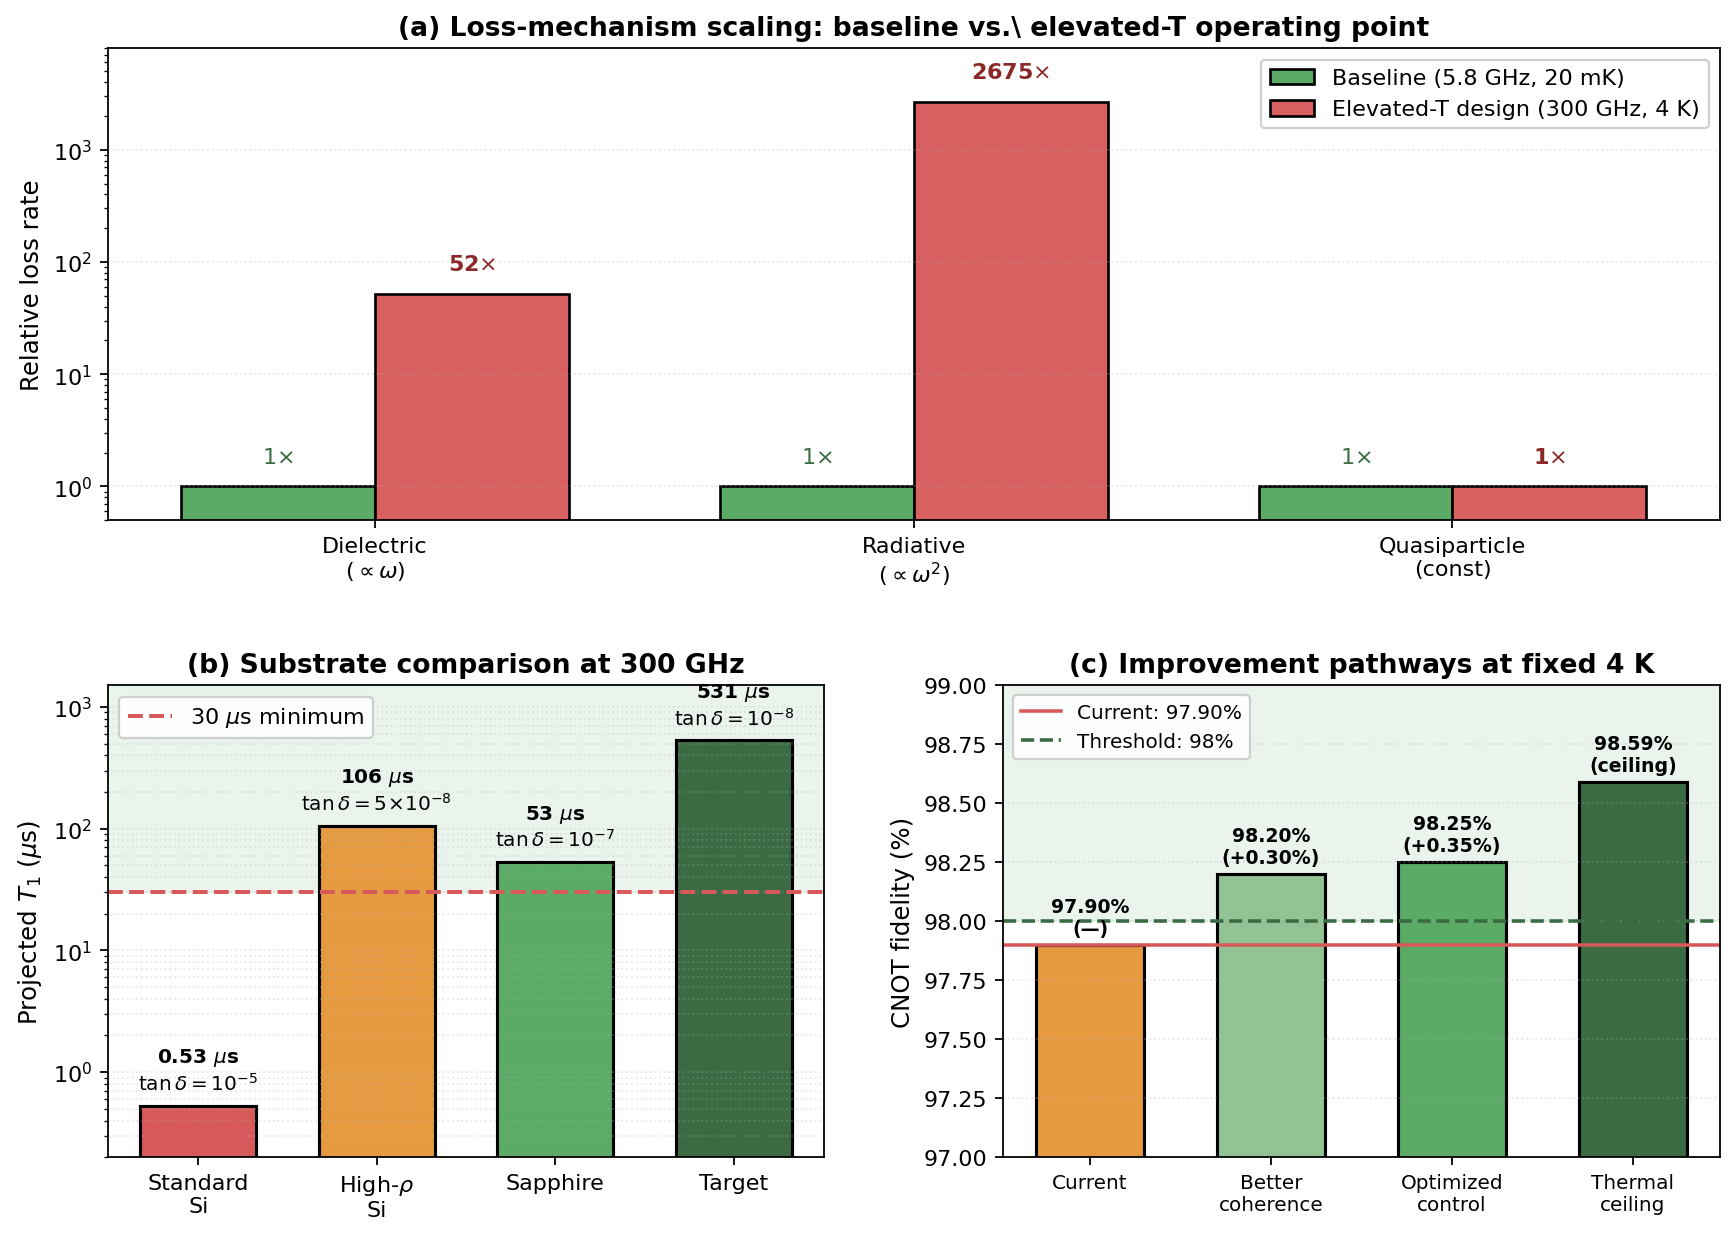
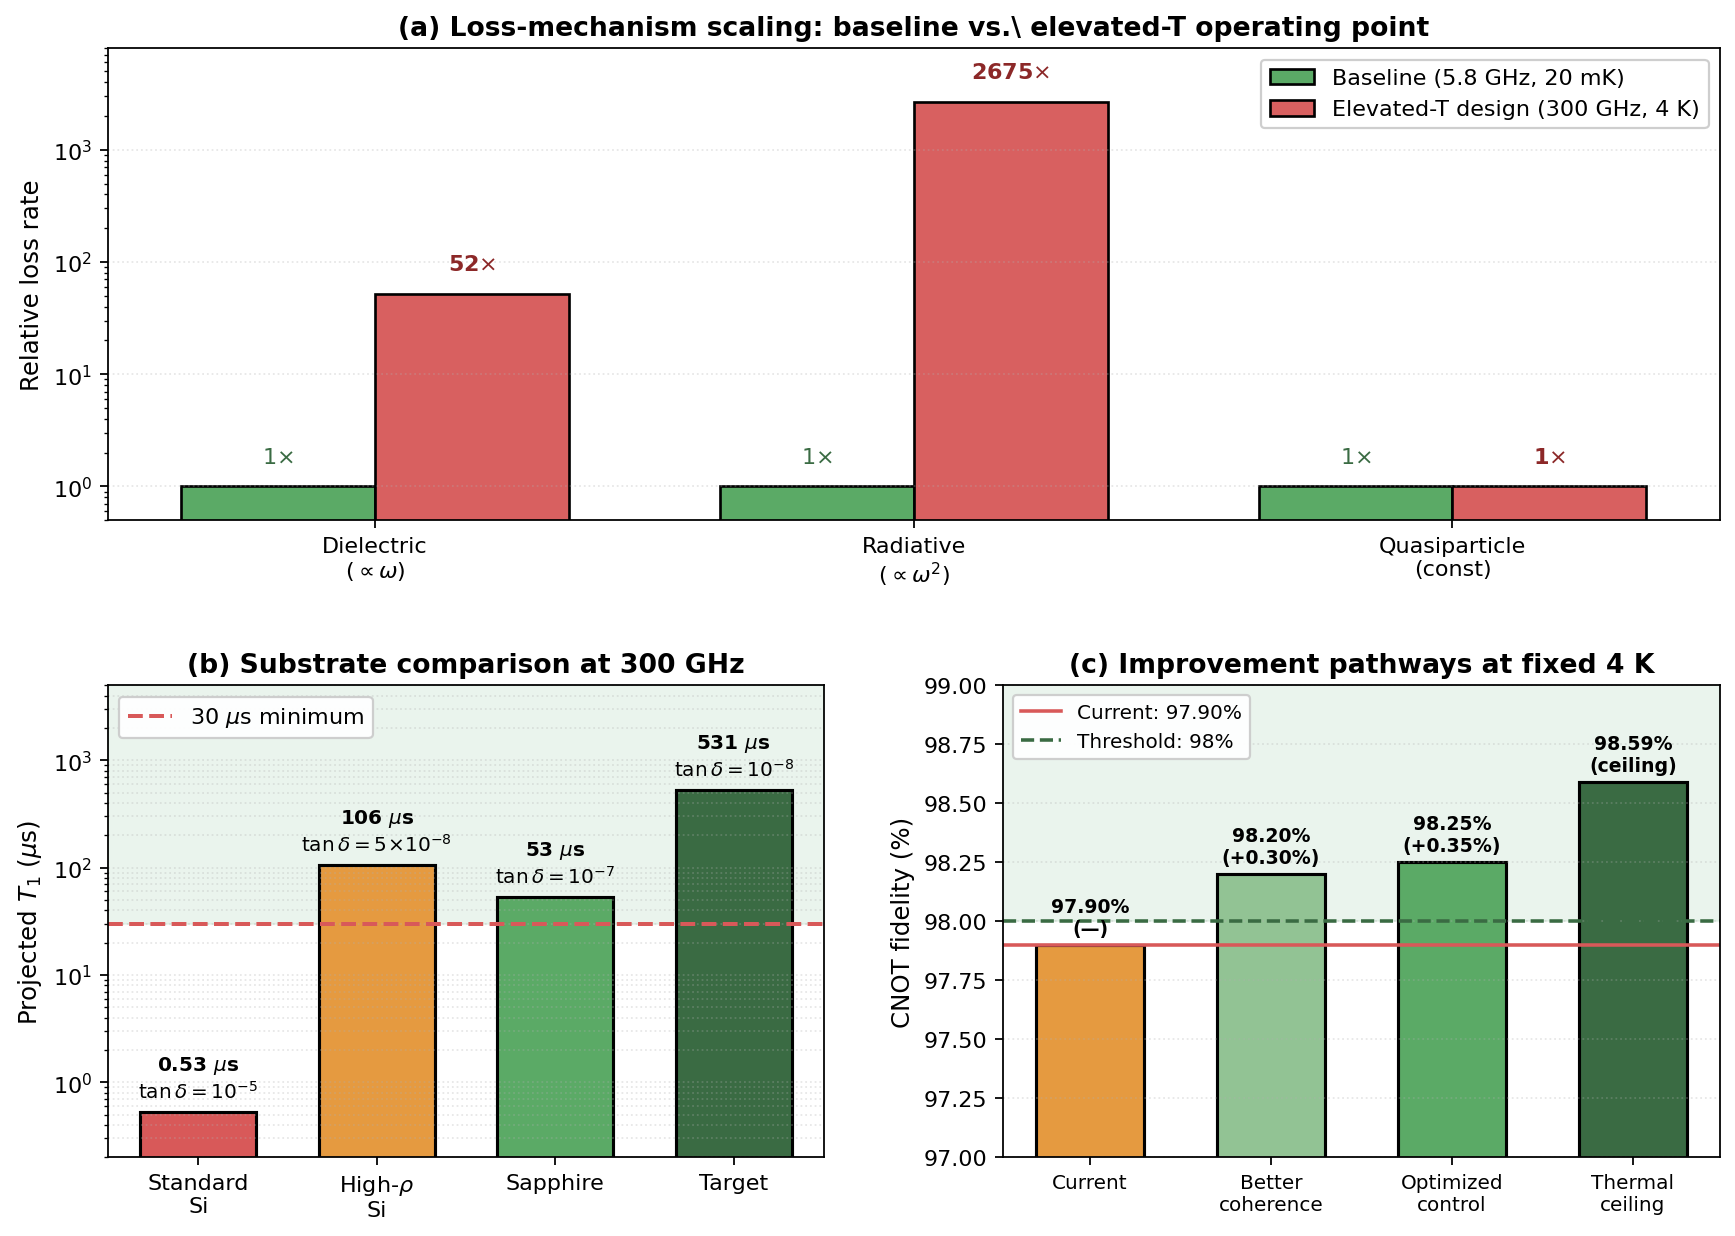
Cap gate-error axes at 100% (fig 2.19) + label headroom (fig 2.20b)
Claude-Session: https://claude.ai/code/session_01DD9m6UXVTKwPczyf4WWcwE

diff --git a/frequency_tradeoff_canonical.py b/frequency_tradeoff_canonical.py
@@ -127,7 +127,7 @@ ax_c.annotate(rf"design point: 300 GHz, $\varepsilon={eps_300*100:.2f}\%$",
               arrowprops=dict(arrowstyle="->", color=C300))
 ax_c.set_xlabel("Frequency (GHz)"); ax_c.set_ylabel(r"gate error $\varepsilon$ (%)")
 ax_c.set_title(r"(c) Fidelity trade-off: $\varepsilon(f)=t_{\rm CNOT}\Gamma_{\rm diel}+\bar n_{\rm th}/2$")
-ax_c.set_xlim(0, 1200); ax_c.set_ylim(0.2, 300)
+ax_c.set_xlim(0, 1200); ax_c.set_ylim(0.2, 100)
 ax_c.legend(fontsize=9, loc="upper right"); ax_c.grid(alpha=0.3)
 
 # (d) sensitivity to the tan-delta uncertainty (G9 factor-3 band)
@@ -143,7 +143,7 @@ ax_d.plot([f_op, f_op], [eps_300 * 100, eps_total(f_op, Q=Q_lo) * 100],
           label="300 GHz design point (band)")
 ax_d.set_xlabel("Frequency (GHz)"); ax_d.set_ylabel(r"gate error $\varepsilon$ (%)")
 ax_d.set_title(r"(d) Sensitivity to the sub-THz $\tan\delta$ extrapolation (factor 3)")
-ax_d.set_xlim(0, 1200); ax_d.set_ylim(0.2, 300)
+ax_d.set_xlim(0, 1200); ax_d.set_ylim(0.2, 100)
 ax_d.legend(fontsize=9, loc="upper right"); ax_d.grid(alpha=0.3)
 
 fig.tight_layout()

diff --git a/audit_g7/scripts/regenerate_fig4_technical_challenges.py b/audit_g7/scripts/regenerate_fig4_technical_challenges.py
@@ -99,7 +99,7 @@ colors_b = ['#D85959', '#E59A40', '#5BAA66', '#3A6B43']
 
 # Green shaded region above 30 us (log scale: values span 3 decades)
 ax_b.set_yscale('log')
-ax_b.axhspan(30, 1500, color='#D6EBDD', alpha=0.5, zorder=0)
+ax_b.axhspan(30, 5000, color='#D6EBDD', alpha=0.5, zorder=0)
 
 bars = ax_b.bar(range(4), t1_us, color=colors_b, edgecolor='black',
                 linewidth=1.4, width=0.65)
@@ -118,7 +118,7 @@ ax_b.set_xticks(range(4))
 ax_b.set_xticklabels(substrates)
 ax_b.set_ylabel(r'Projected $T_1$ ($\mu$s)')
 ax_b.set_title('(b) Substrate comparison at 300 GHz', fontweight='bold')
-ax_b.set_ylim(0.2, 1500)
+ax_b.set_ylim(0.2, 5000)
 ax_b.legend(loc='upper left', fontsize=10, framealpha=0.95)
 ax_b.grid(axis='y', alpha=0.3, linestyle=':', which='both')
 
